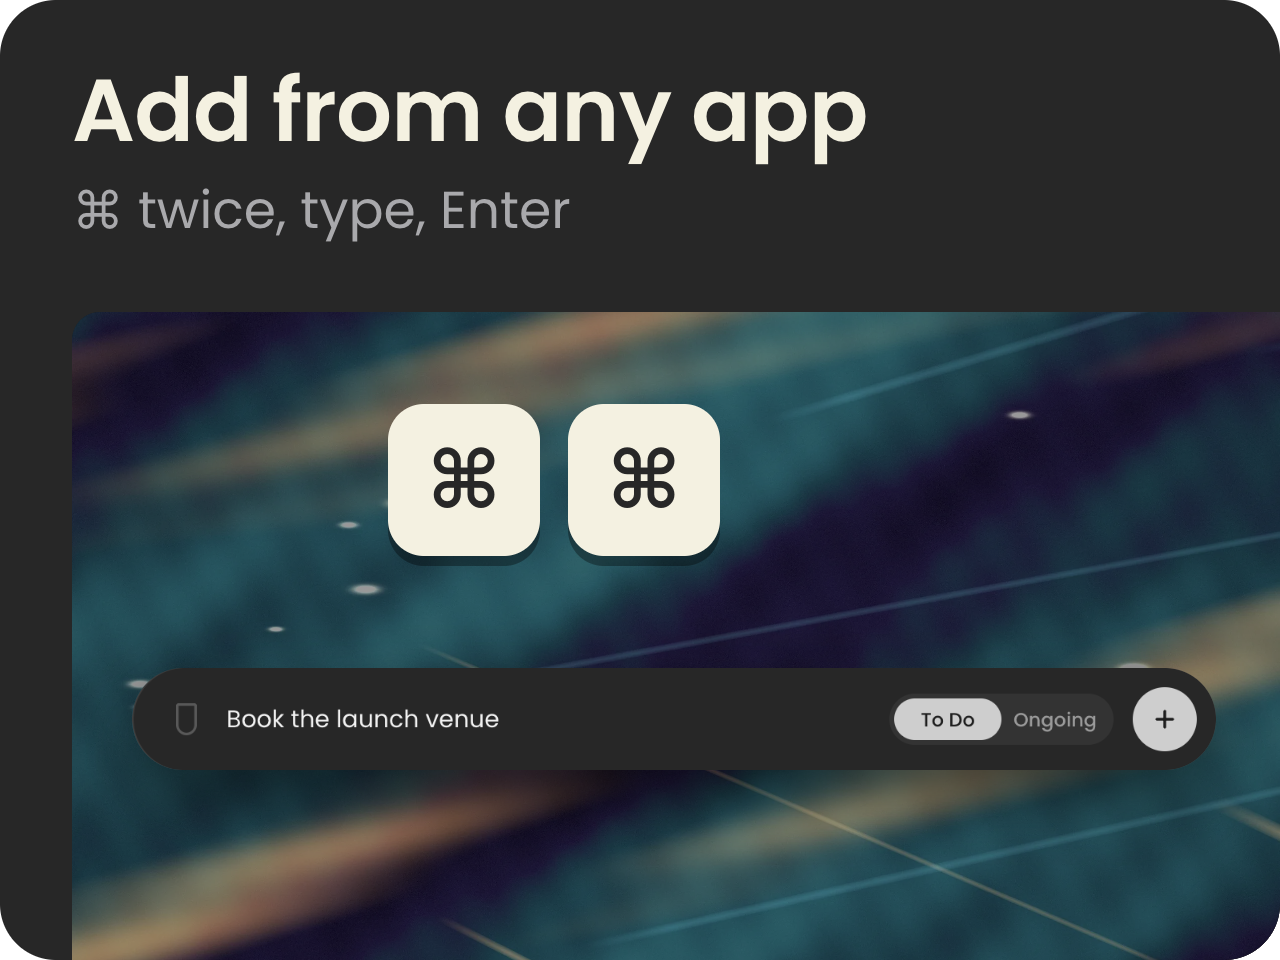
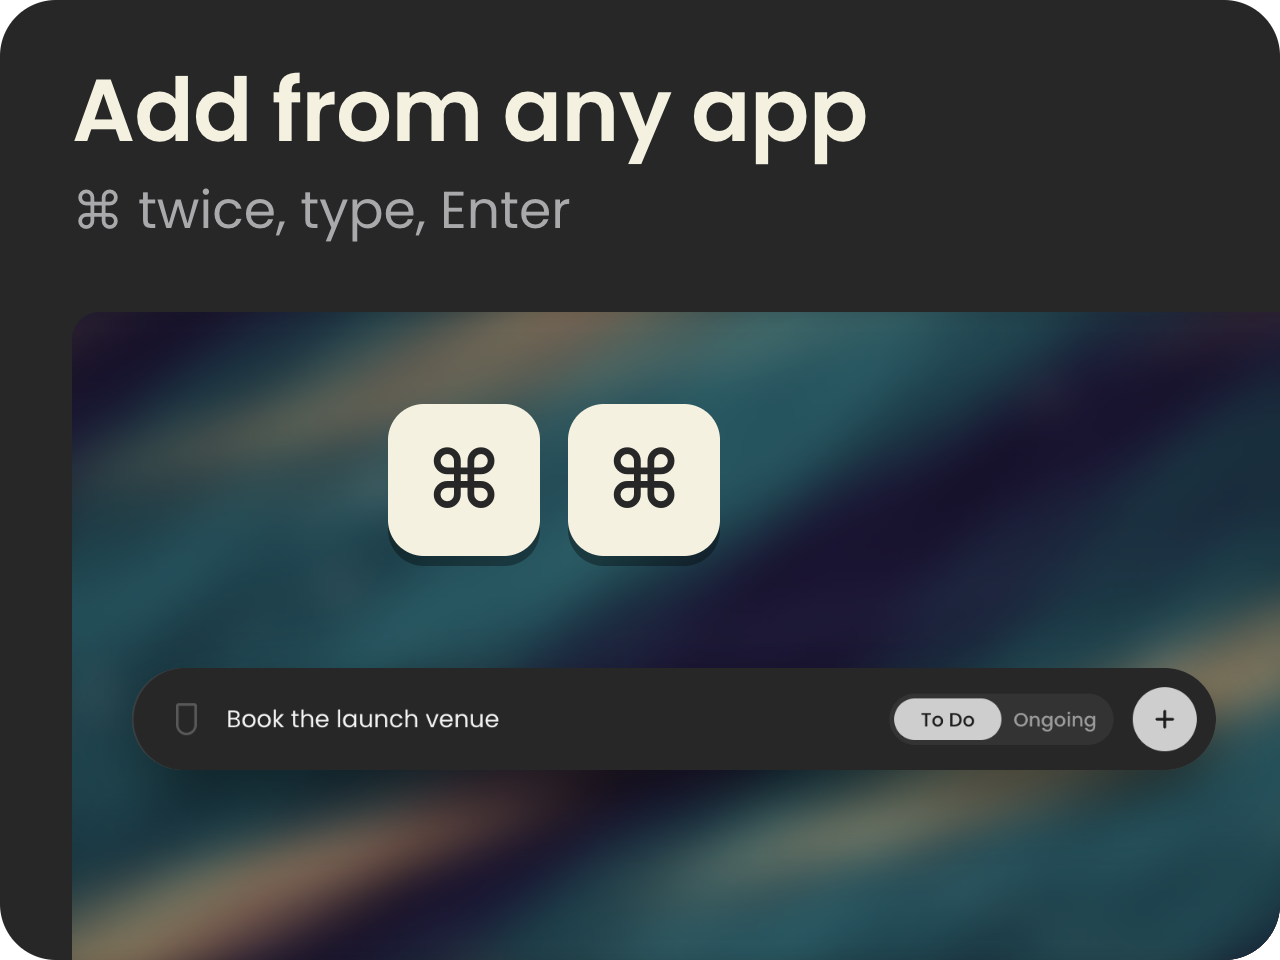
README art: soften the quick-add card's backdrop (788 KB to 270 KB)

diff --git a/tools/readme/art.html b/tools/readme/art.html
@@ -52,7 +52,7 @@ const ITEMS = {
     crop('side-hidden-dark', 46, 140, 520) +
     `<div style="position:absolute;right:28px;top:22px;background:var(--cream);color:#272727;border-radius:22px 22px 6px 22px;padding:11px 20px;font:500 24px/1.2 Poppins;box-shadow:0 12px 28px rgba(0,0,0,.5)">plan my day</div>`),
   'card-quick': () => card('Add from any app', '⌘ twice, type, Enter',
-    `<div style="position:absolute;inset:0;background:url(../shots/backdrop.webp) center / cover no-repeat;filter:brightness(.6)"></div>
+    `<div style="position:absolute;inset:0;background:url(../shots/backdrop.webp) center / cover no-repeat;filter:brightness(.6) blur(10px);transform:scale(1.08)"></div>
      <div style="position:absolute;left:241px;top:46px;transform:translateX(-50%);display:flex;gap:14px">
        ${['⌘', '⌘'].map((k) => `<div style="width:76px;height:76px;border-radius:18px;background:var(--cream);color:#272727;display:grid;place-items:center;font:600 40px/1 Poppins;box-shadow:0 5px 0 rgba(0,0,0,.35)">${k}</div>`).join('')}
      </div>
